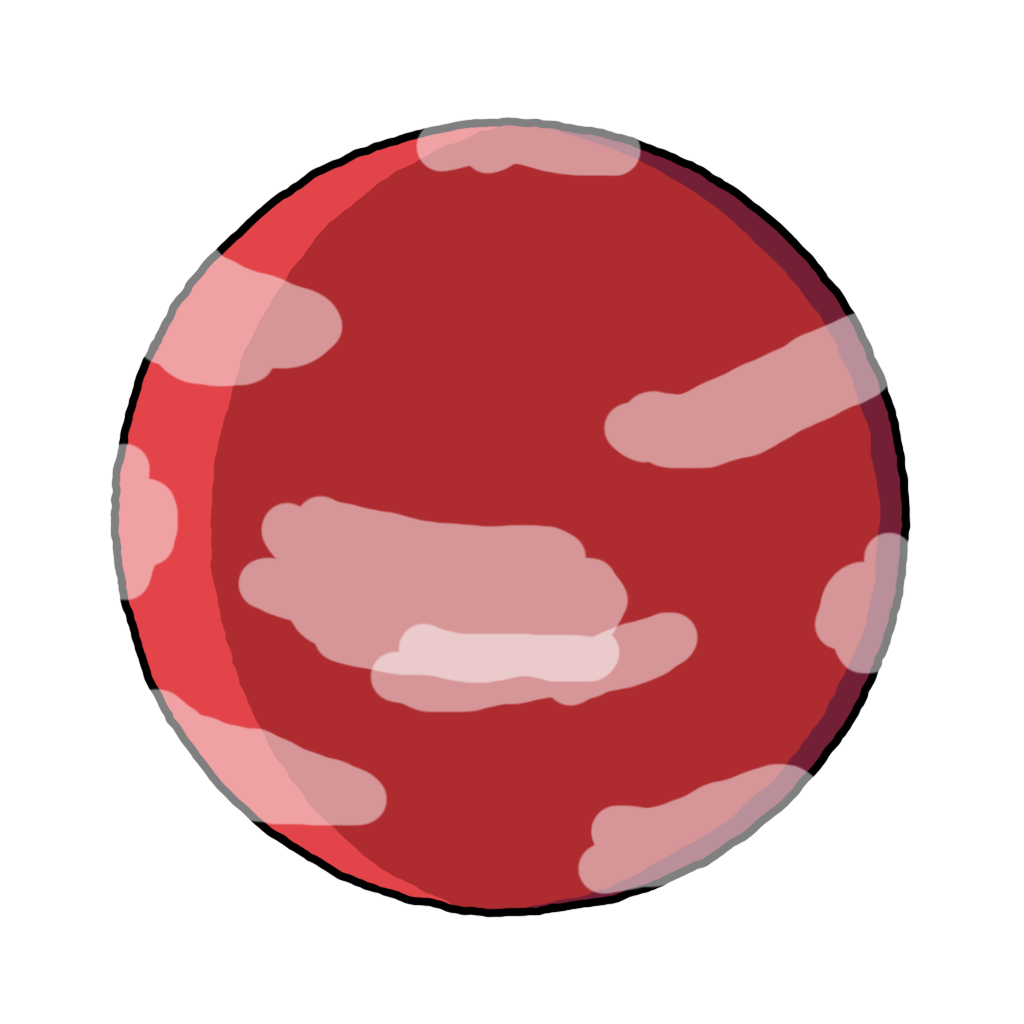
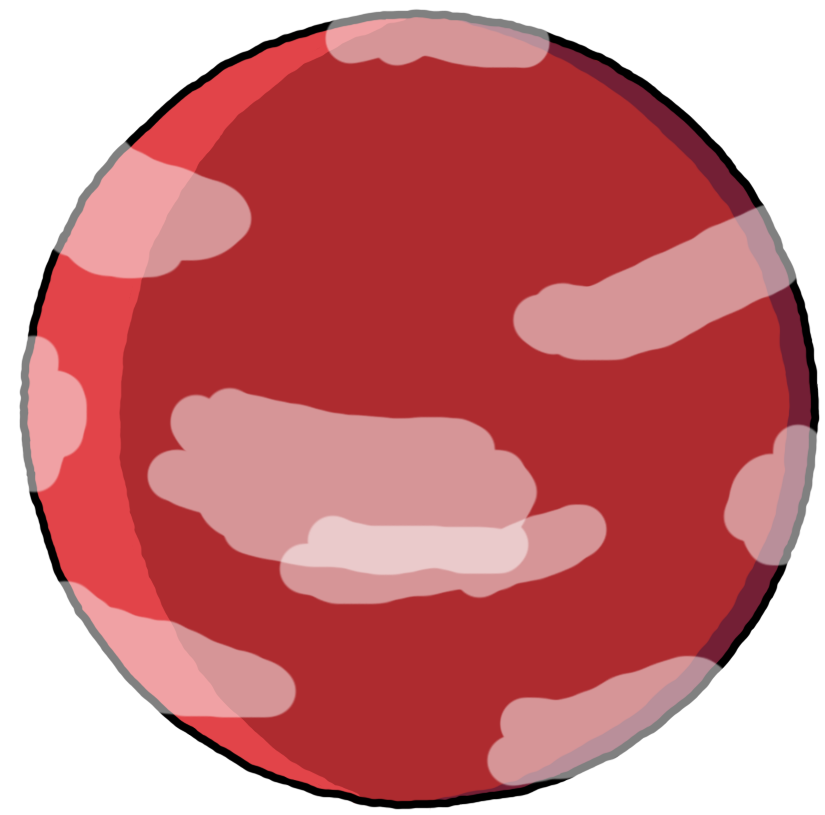
Affichage Cases + Planète centrée

diff --git a/src/solar_system/Ground.java b/src/solar_system/Ground.java
@@ -17,16 +17,19 @@ public class Ground {
 	private int x_origin;	//Abscisse du coin supérieur gauche
 	private int y_origin;	//Ordonnée du coin supérieur gauche
 	private Image image;
+	private int radius;
 	
 	public Ground(Planet planet, World world) {
 		/* Créer un objet de classe Ground avec des cases pour sur la planete plt */
 		this.planet = planet;
 		this.world = world;
-		generateCases();
+		this.radius = (int) Math.floor(this.planet.getRadius()*8.1);
 		// Calcul du coin haut-gauche de la zone d'affichage (pour l'instant un carré) des cases
-		double half_width = planet.getRadius()/Math.sqrt(2);
-		this.x_origin =  (int) (world.getWidth()/2 - Math.floor(half_width) );
-		this.y_origin =  (int) (world.getHeight()/2 - Math.floor(half_width) );
+		double half_width = radius/Math.sqrt(2)*world.getHeight()/1080;
+		this.x_origin =  (int) (world.getWidth()/2 - Math.floor(half_width) ) + 7;
+		this.y_origin =  (int) (world.getHeight()/2 - Math.floor(half_width) ) + 7;
+		
+		generateCases();
 		
 		try{
 			this.image = new Image(planet.getNomImage());
@@ -37,7 +40,8 @@ public class Ground {
 	}
 		
 	public void render(GameContainer container, StateBasedGame game, Graphics context) {
-		context.drawImage(image,5,5);
+		
+		context.drawImage(image, container.getWidth()/2-radius*world.getHeight()/1080, container.getHeight()/2-radius*world.getHeight()/1080, container.getWidth()/2+radius*world.getHeight()/1080, container.getHeight()/2+radius*world.getHeight()/1080, 0, 0, image.getWidth()-1, image.getWidth()-1);
 		for (Case[] tab : cases) {
 			for (Case c : tab) {
 				c.render(container, game, context);
@@ -64,13 +68,13 @@ public class Ground {
 		int resourceQuantity = 0;
 		
 		// Nombre de cases en longueur :
-		int n = (int) Math.floor(Math.sqrt(2 * planet.getRadius())/ sizeCase);
+		int n = (int) Math.floor( ((float)Math.sqrt(2) * (float) radius + 14) / (float) sizeCase);
 		
 		this.cases = new Case[n][n];
 		
 		for (int i = 0; i < cases.length ; i++) {
 			for (int j = 0; j < cases.length; j++ ) {
-				cases[i][j] = new Case(x_origin + i*sizeCase, y_origin + j*sizeCase, sizeCase, resource, resourceQuantity);
+				cases[i][j] = new Case(x_origin + i*sizeCase*world.getHeight()/1080, y_origin + j*sizeCase*world.getHeight()/1080, sizeCase*world.getHeight()/1080, resource, resourceQuantity);
 			}
 		}
 	}

diff --git a/src/solar_system/Case.java b/src/solar_system/Case.java
@@ -42,13 +42,14 @@ public class Case {
 	}
 	
 	public void render (GameContainer container, StateBasedGame game, Graphics context) {
+		
 		if(resource != null){
-			context.setColor(new Color(255, 0, 0, 127));
+			context.setColor(new Color(0, 0, 0, 127));
 		}
 		else{
-			context.setColor(new Color(0, 0, 255, 127));
+			context.setColor(new Color(0, 0, 0, 127));
 		}
-		context.fillRect(x, y, size, size);
+		context.drawRect(x, y, size, size);
 	}
 
 	public void update (GameContainer container, StateBasedGame game, int delta) {

diff --git a/src/solar_system/Planet.java b/src/solar_system/Planet.java
@@ -49,7 +49,7 @@ public class Planet {
 		air.addOrbital(orbital);
 		
 		Random rnd = new Random();
-		this.nomImage = "res/images/planets/"+rnd.nextInt(4)+".png";
+		this.nomImage = "res/images/planets/"+rnd.nextInt(6)+".png";
 		try{
 			this.image = new Image(nomImage);
 		} catch (SlickException e) {
